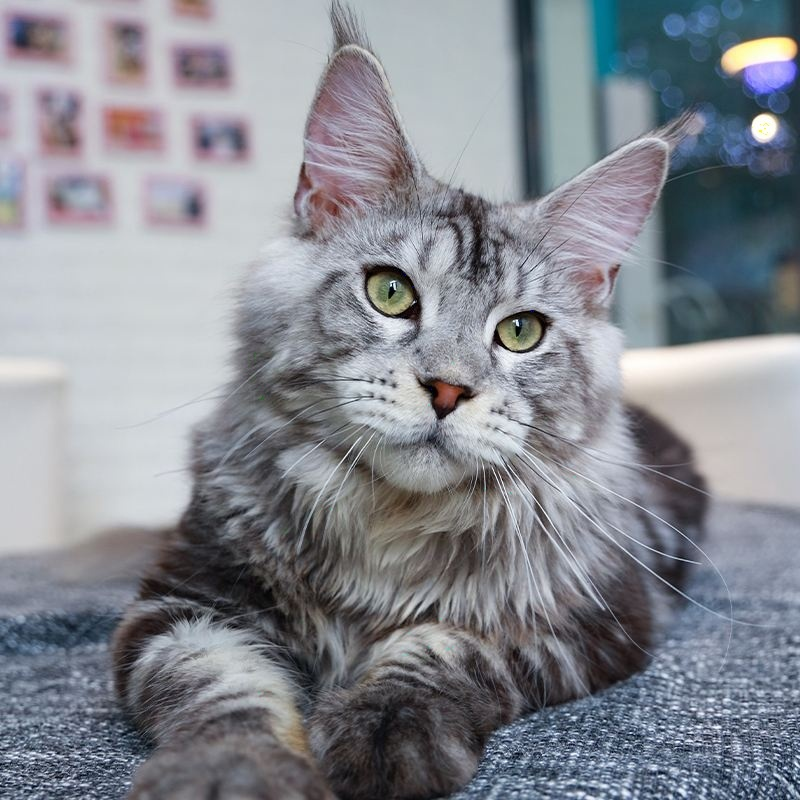
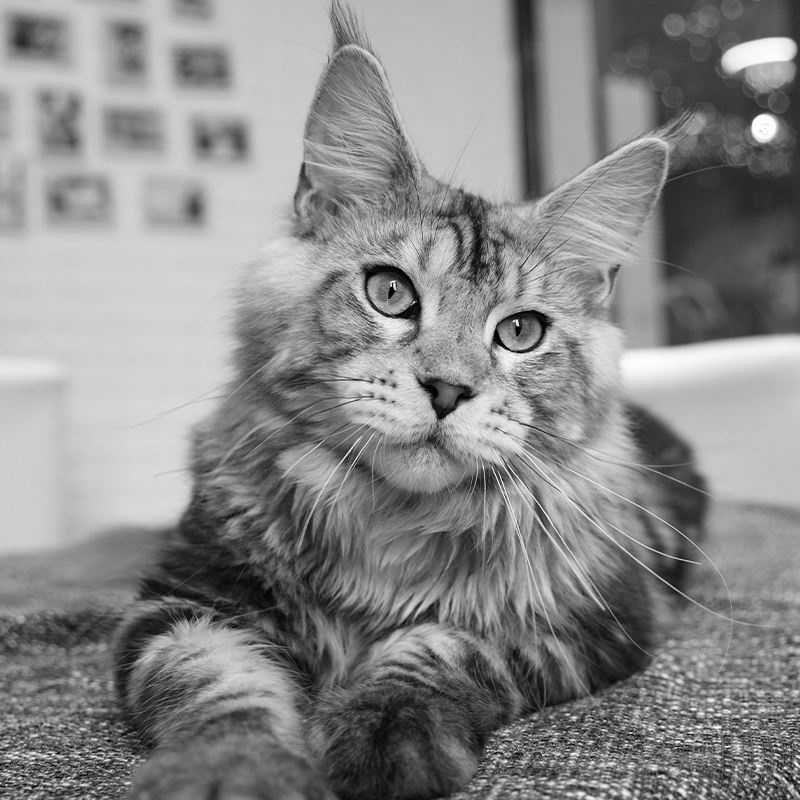
Changes

diff --git a/demo_dir/Improved_Exploiting_Modification_Direction_Method_by_Modulus_Operation.py b/demo_dir/Improved_Exploiting_Modification_Direction_Method_by_Modulus_Operation.py
@@ -1,0 +1,127 @@
+# 编写人员：刘嘉豪
+#
+# 开发时间：2022/6/14 20:03
+import math
+from PIL import Image
+import Efficiency
+
+
+def plus(string):
+    # Python zfill() 方法返回指定长度的字符串，原字符串右对齐，前面填充0。
+
+    return string.zfill(8)
+
+
+def mod(x, y):
+    return x % y
+
+
+def get_key(n, mod, str2):  # 进制转换，str1=0 表示n进制转二进制，str=1 表示二进制转n进制 str2进制字符串
+    s = ""
+    if mod == 0:
+        i = int(str2, n)
+        k = bin(i).replace('0b', '')
+        s = str(k)
+        print(str2, "\n", n, "进制转2进制：", s)
+        return s
+    elif mod == 1:
+        i = int(str2, 2)
+        print("i=", i)
+        while i > 0:
+            k = i % n
+            i = i // n
+            s += str(k)
+        print(str2, "二进制转n进制:", s[::-1], )
+        return s[::-1]
+
+
+# 隐藏函数
+def func(str1, str2, str3):
+    im2 = Image.open(str1)
+    # 转换成灰度图
+    im = im2.convert('L')
+    # 获取图片的宽和高
+    width = im.size[0]
+    print("width:" + str(width) + "\n")
+    height = im.size[1]
+    print("height:" + str(height) + "\n")
+    count = 0
+    # 获取需要隐藏的信息
+    key = get_key(5, 1, str2)  # key是转换n进制后的值
+    # 隐藏信息长度
+    keylen = len(key)
+    print("len=", keylen)
+    for h in range(0, height):
+
+        for w in range(0, width, 1):
+            if count == keylen:
+                break
+            p1 = im.getpixel((w, h))  # 第i位置的像数值
+            print("p1={},key-count={}".format(p1, key[count]))
+            if 0 <= p1 <= 1:
+                for x in range(0, 5, 1):
+                    f = mod((p1 + x), 5)
+                    print("f=", f)
+                    if f == int(key[count]):
+                        print("f相等={},key={}".format(f, key[count]))
+                        p2 = p1 + x
+                        im.putpixel((w, h), p2)
+            elif 1 < p1 < 254:
+                for x in range(-2, 3, 1):
+                    f = mod((p1 + x), 5)
+                    print("f=", f)
+                    if f == int(key[count]):
+                        print("f相等={},key={}".format(f, key[count]))
+                        p2 = p1 + x
+                        im.putpixel((w, h), p2)
+            elif 254 <= p1 <= 255:
+                for x in range(-4, 1, 1):
+                    f = mod((p1 + x), 5)
+                    print("f=", f)
+                    if f == int(key[count]):
+                        print("f相等={},key={}".format(f, key[count]))
+                        p2 = p1 + x
+                        im.putpixel((w, h), p2)
+            count += 1
+        if count == keylen:
+            break
+
+    #  im.show()
+    im.save(str3)
+
+
+def func2(le, str1):
+    im = Image.open(str1)
+
+    width = im.size[0]
+
+    height = im.size[1]
+    str2 = ""
+    count = 0
+    for h in range(0, height):
+
+        for w in range(0, width, ):
+            if count == le:
+                break
+            pixel1 = im.getpixel((w, h))  # 第i位置的像数值
+            # 计算f值
+            f = mod(pixel1, 5)
+            str2 += str(f)
+            count += 1
+            if count == le:
+                print("str2=", str2)
+                print("所求原二进制数据=", get_key(5, 0, str2))
+                break
+
+
+# 原图
+old = "D:\study_python\\newprogram\cat.png"
+# 处理后输出的图片路径
+new = "D:\study_python\\newprogram\cat_test.png"
+# 需要隐藏的信息
+enc = "D:\study_python\\newprogram\\flag.txt"
+
+
+func(old, '110101101001', new)
+print("psnr=", Efficiency.psnr(old, new))
+func2(6, new)

diff --git a/performance_index .py b/performance_index .py
@@ -1,6 +1,3 @@
-# 编写人员：刘嘉豪
-#
-# 开发时间：2022/6/9 16:54
 import math
 import numpy as np
 from PIL import Image
@@ -17,8 +14,15 @@ def R(n):
 def psnr(img1, img2):
     img1 = np.array(Image.open(img1).convert('L')).astype(np.float64)
     img2 = np.array(Image.open(img2).convert('L')).astype(np.float64)
-    mse = np.mean((img1 - img2) ** 2)
+    mse = np.mean((img1-img2)**2)
     if mse == 0:
         return 100
     else:
-        return 10 * np.log10(255 / np.sqrt(mse))
+        return 20*np.log10(255/np.sqrt(mse))
+
+
+# 原图
+old = "D:\study_python\\newprogram\cat.png"
+# 处理后输出的图片路径
+new = "D:\study_python\\newprogram\cat_test.png"
+print(psnr(old, new))

diff --git a/main.py b/main.py
@@ -1,19 +1,9 @@
-# -*- coding:utf-8 -*-
-import requests
-
-def fanyiyoudao(word):
-
-    data = {
-        'doctype': 'json',
-        'type': 'AUTO',
-        'i': word,
-    }
-    url = "http://fanyi.youdao.com/translate"
-    r = requests.get(url, params=data)
-    result = r.json()
-    print(result['translateResult'][0][0]['tgt'])
-    res = result['translateResult'][0][0]['tgt']
-    return res
 
 
-fanyiyoudao("this is secret data")
+
+
+def LSB(str):
+    return str[len(str) - 1]
+
+
+print(LSB("110012"))

diff --git a/test.py b/test.py
@@ -2,9 +2,8 @@
 #
 # 开发时间：2022/4/10 20:29
 
+import  math
 
-f = open("test.txt",encoding='UTF-8')
-line = f.read()
-print(line)
+for i in range(-4,4,1):
 
-f.close()
+    print(i)

diff --git a/hello.py b/hello.py
@@ -42,7 +42,7 @@ def get_key(strring):
 
 
 def mod(x, y):
-    return x % y;
+    return x % y
 
 
 # str1为载体图片路径，str2为隐写文件，str3为加密图片保存的路径
